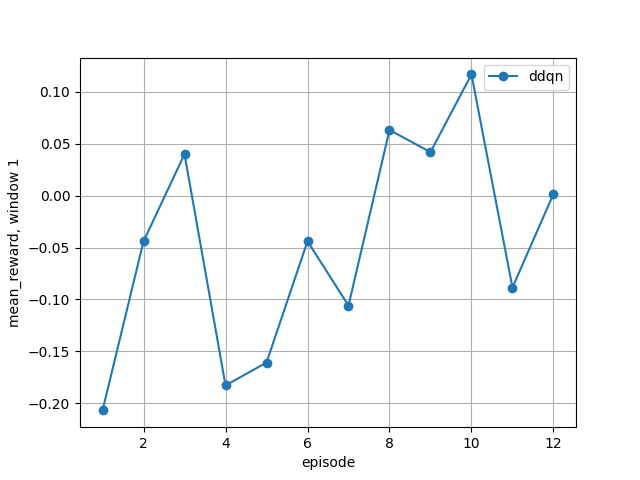
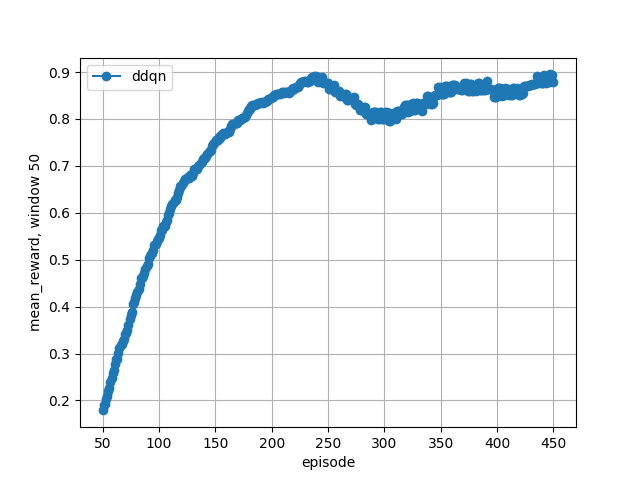
implemented optimal solution

diff --git a/utils/optimum.py b/utils/optimum.py
@@ -1,0 +1,131 @@
+"""
+optimum.py
+
+Class for generating the optimal split config for the given system variables and defined constraints.
+
+"""
+from utils.action_space import enumerate_action_space
+from utils.inference_utils import compute_inference
+
+class Opt:
+    def __init__(self, scenario_params, allowed_splits, num_nodes, flops_per_block, allowed_splits_blocks):
+        self.scenario_params = scenario_params
+        self.allowed_splits = allowed_splits
+        self.num_nodes = num_nodes
+        self.flops_per_block = flops_per_block
+        self.allowed_splits_blocks = allowed_splits_blocks
+        self.max_energy_credit = self.scenario_params['max_energy_credit']
+        self.max_inference_latency = self.scenario_params['max_inference_latency']
+        self.energy_credit_consumed = 0.0  # energy credit consumed initially is 0%
+        self.total_flops_offloaded = 0  # captures the cumulative flops offloaded by the ue until now
+        self.total_flops = 0  # captures total flops of all layers (static value)
+        self.total_flops_on_ue = 0  # captures the cumulative flops computed on the ue until now
+        for key, value in self.flops_per_block.items():
+            self.total_flops += value
+
+    def generate_optimal_split(self, time, ep, dnn_model, episode_params, output):
+        min_idx = 0
+        feasible_splits, action_indices = enumerate_action_space(self.allowed_splits, self.num_nodes, allow_empty_nodes=True)
+        num_feasible_splits = len(feasible_splits)
+        evaluations = [0 for _ in range(num_feasible_splits)]   # stores the optimization evaluation
+        constraints_satisfied = [False for _ in range(num_feasible_splits)] # stores if constraints are satisfied
+        # for each feasible split, compute the optimization and store it in a list
+        # and check if constraints are satisfied, store the result in a list
+        #print(feasible_splits)
+        for i, split in enumerate(feasible_splits):
+            #print(split)
+            # compute the flops to be offloaded due to this selected split
+            flops_to_be_offloaded, flops_on_ue = self.get_flops_offloaded(split, self.allowed_splits_blocks)
+            # compute the inference due to this selected split
+            inference_time, ue_en_comp, ue_en_comm, _ = compute_inference(split, dnn_model, episode_params, output)
+            optimization = (self.scenario_params['weight_inference_time'] * inference_time +
+                        self.scenario_params['weight_ue_energy'] * (ue_en_comp + ue_en_comm))
+            evaluations[i] = optimization
+            # for each evaluated optimization, check if constraints are satisfied
+            energy_credit_criteria, energy_credit_consumed = self.check_energy_credit_budget(flops_to_be_offloaded)
+            latency_criteria = self.check_latency_criteria(inference_time)
+            if energy_credit_criteria and latency_criteria:
+                constraints_satisfied[i] = True
+            else:
+                constraints_satisfied[i] = False
+        # start with the first split as the default
+        best_split_evaluation = evaluations[min_idx]
+        best_split = feasible_splits[min_idx]
+        # for each split that satisfies constraints, check if it's the minimum
+        for i, opt in enumerate(evaluations):
+            if constraints_satisfied[i]:
+                if evaluations[i] < best_split_evaluation:
+                    min_idx = i
+                    best_split_evaluation = evaluations[min_idx]
+                    best_split = feasible_splits[min_idx]
+        # however, if none of the feasible splits satisfies the constraints, go to fallback option
+        if True not in constraints_satisfied:
+            best_split = [(0, 0, 18), (1, 18, 18), (2, 18, 18), (3, 18, 18)]
+            print('No feasible solution found - ue computes everything')
+        # update the variables using the best split
+        flops_to_be_offloaded, flops_on_ue = self.get_flops_offloaded(best_split, self.allowed_splits_blocks)
+        self.total_flops_offloaded += flops_to_be_offloaded
+        self.total_flops_on_ue += flops_on_ue
+        print(self.total_flops_offloaded)
+        # TODO: update the energy credit consumed here
+        return best_split
+
+    def get_flops_offloaded(self, selected_split_config, allowed_splits_blocks):
+        """
+        Function that computes the flops offloaded for a selected split configuration.
+        Args:
+            selected_split_config (tuple): the selected split.
+            allowed_splits_blocks (dict): dict containing the mapping of the blocks to the allowed splits.
+
+        Returns:
+            the flops offloaded to the network and the corresponding flops on the ue.
+        """
+        flops_on_ue = 0
+        (node_id, start, end) = selected_split_config[0] # extract start and end layers of ue
+        # case 1: all layers on ue, ue offloads nothing
+        if start == 0 and end == 18:
+            flops_on_ue = self.total_flops
+            flops_offloaded = 0
+            return flops_offloaded, flops_on_ue
+        else:
+            # case 2: at least one block on ue, ue offloads the rest
+            for i, (block_id, block_start, block_end) in enumerate(allowed_splits_blocks):
+                if end > block_end:
+                    flops_on_ue += self.flops_per_block[block_id]
+                elif end == block_end:
+                    flops_on_ue += self.flops_per_block[block_id]
+                    break
+                else:
+                    raise ValueError('Wrong mapping of blocks.')
+            flops_offloaded = self.total_flops - flops_on_ue    # flops offloaded for this specific split config
+            return flops_offloaded, flops_on_ue
+
+
+    def check_energy_credit_budget(self, flops_offloaded):
+        """
+        Function that checks the energy credit criteria.
+        Args:
+            flops_offloaded (float): the flops offloaded due to the current split.
+
+        Returns:
+            The result of the constraint being satisfied or not, and the energy credit consumed.
+        """
+        energy_credit_consumed = (flops_offloaded + self.total_flops_offloaded) / (self.total_flops + self.total_flops_on_ue)
+        if energy_credit_consumed <= self.max_energy_credit / 100:
+            return True, energy_credit_consumed
+        else:
+            return False, 0
+
+    def check_latency_criteria(self, inference_time):
+        """
+        Function that checks latency criteria.
+        Args:
+            inference_time (float): The inference time due to the current split.
+
+        Returns:
+            The result of the constraint being satisfied or not.
+        """
+        if inference_time <= self.max_inference_latency:
+            return True
+        else:
+            return False

diff --git a/main.py b/main.py
@@ -10,6 +10,7 @@ from utils.param_generator import generate_params
 from utils.split_generator import generate_random_split
 from utils.scenario_generator import generate_scenario
 from utils.inference_utils import compute_inference
+from utils.optimum import Opt
 from utils.logging_utils import write_logs
 from rl.agent import Agent
 from PIL import Image
@@ -22,7 +23,7 @@ num_nodes = 4  # UE + 3 network nodes
 energy_cost = 1  # in 1e-7 scale (J/byte) for UE communication
 power = 5
 agent = None
-
+opt = None
 
 # Import the scenario params
 scenario_params = generate_scenario()
@@ -74,6 +75,9 @@ for ep in range(start_episode, scenario_params['n_episodes'] + 1):
         # initialize agent
         agent = Agent(scenario_params, allowed_splits, num_nodes, flops_per_block, allowed_splits_blocks)
         agent.agent.get_epsilon(ep)
+    elif scenario_params['split_algorithm'] == 3:   # if optimal solution is selected
+        # initialize solver
+        opt = Opt(scenario_params, allowed_splits, num_nodes, flops_per_block, allowed_splits_blocks)
     for k in range(1, scenario_params['episode_duration'], scenario_params['time_interval']):
         #print('Time step {} in episode {}'.format(k, ep))
         ue_freq, ue_flops_cycle, ue_bandwidth, freqs, flops_cycle, bandwidth = generate_params(num_nodes)
@@ -113,11 +117,14 @@ for ep in range(start_episode, scenario_params['n_episodes'] + 1):
 
         if scenario_params['split_algorithm'] == 1:  # indicates random split
             split_config = generate_random_split(allowed_splits, num_nodes)  # Replace with RL method
-        else:
+        elif scenario_params['split_algorithm'] == 2:   # rl agent
             split_config = agent.execute(k, ep, model, episode_params, current_output)  # agent determines the split every time_interval seconds
-
+        else:
+            split_config = opt.generate_optimal_split(k, ep, model, episode_params, current_output)
+            print('Optimal split {}'.format(split_config))
         # compute inference using the generated split configuration
-        total_time, ue_energy_comp, ue_energy_comm, current_output = compute_inference(split_config, model, episode_params, current_output)
+        total_time, ue_energy_comp, ue_energy_comm, current_output = compute_inference(split_config, model,
+                                                                                       episode_params, current_output)
 
         #
         # -----------------------
@@ -133,7 +140,8 @@ for ep in range(start_episode, scenario_params['n_episodes'] + 1):
         inference_time_per_episode.append({'time_step': k, 'inference_time': total_time})
         ue_energy_comp_per_episode.append({'time_step': k, 'ue_energy_comp': ue_energy_comp})
         ue_energy_comm_per_episode.append({'time_step': k, 'ue_energy_comm': ue_energy_comm})
-        success_rate_per_episode.append({'time_step': k,
+        if scenario_params['split_algorithm'] == 2:
+            success_rate_per_episode.append({'time_step': k,
                                          'success_rate': (agent.agent.n_success / agent.agent.n_attempts_to_split) * 100})
         # -----------------------
         # Final Classification Output
@@ -166,6 +174,6 @@ for ep in range(start_episode, scenario_params['n_episodes'] + 1):
     # Display variables in this episode
     # --------------------------------------
     if scenario_params['split_algorithm'] == 2:
-        print('Mean episode reward {}, success rate {}'.format(agent.agent.mean_reward,
+        print('Cumulative episode reward {}, success rate {}'.format(agent.agent.cumulative_reward,
                                                                (agent.agent.n_success / agent.agent.n_attempts_to_split) * 100))
 

diff --git a/rl/agent.py b/rl/agent.py
@@ -5,7 +5,7 @@ Defines the generic RL agent and its associated methods to train or infer the RL
 """
 
 from rl.ddqn import DDQNAgent, QValues
-from rl.replay_buffer import Experience, extract_tensors, ReplayBuffer
+from rl.replay_buffer import Experience, extract_tensors
 from utils.action_space import enumerate_action_space
 from utils.rl_utils import load_model_params
 
@@ -55,10 +55,10 @@ class Agent:
         # if training mode is on
         if not self.scenario_params['inference']:
             # train the agent
-            final_action = self.train_agent(time, dnn_model, episode_params, output)
+            final_action = self.train_ddqn_agent(time, dnn_model, episode_params, output)
         return final_action
 
-    def train_agent(self, time, dnn_model, episode_params, output):
+    def train_ddqn_agent(self, time, dnn_model, episode_params, output):
         """
         Function that trains the agent.
         Args:
@@ -87,7 +87,7 @@ class Agent:
         self.agent.reward.append({'time': time, 'reward': reward})
         # update reward counter and compute cumulative average
         self.agent.reward_counter += 1
-        self.agent.mean_reward = reward / self.agent.reward_counter
+        self.agent.cumulative_reward = reward / self.agent.reward_counter
         next_state = self.agent.get_agent_state(episode_params, self.flops_per_block)
         # collect the experience in the replay buffer
         self.agent.replay_buffer.push(Experience(

diff --git a/rl/ddqn.py b/rl/ddqn.py
@@ -12,7 +12,6 @@ import torch.nn as nn
 import torch.nn.functional as F
 
 from utils.rl_utils import load_model_params
-from utils.split_generator import generate_random_split
 from utils.inference_utils import compute_inference
 from rl.replay_buffer import ReplayBuffer
 
@@ -49,7 +48,7 @@ class DDQNAgent(nn.Module):
         self.loss_counter = 0
         self.reward = []
         self.reward_counter = 0 # to compute running average of the rewards
-        self.mean_reward = 0
+        self.cumulative_reward = 0
         self.epsilon = None
         self.epsilon_ini = self.scenario_params['epsilon_ini']
         self.epsilon_step_percent = self.scenario_params['epsilon_step_percent']

diff --git a/postprocessing/convergence.py b/postprocessing/convergence.py
@@ -10,7 +10,7 @@ from utils.logging_utils import read_single_col_data, return_order, parse_episod
 
 
 def plot_metric(metric, df, outfile, folder):
-    window = 1
+    window = 50
     fig, ax = plt.subplots()
     roll_mean_loss = df[metric].rolling(window=window).mean()
     plt.plot(df['episode'], roll_mean_loss, marker='o', label='ddqn')
@@ -47,7 +47,7 @@ def main():
 
     params = generate_scenario()
     # specify the number of episodes to be plotted
-    n_episodes = 12
+    n_episodes = 450
     order_to_convert = 100
     generate_metric(params, n_episodes, order_to_convert, 'mean_loss')
     generate_metric(params, n_episodes, order_to_convert, 'mean_reward')

diff --git a/README.md b/README.md
@@ -21,15 +21,18 @@ splitai-6g is a research framework for **layer-wise partitioning of deep neural 
     - `ue_node.py` → UE class handling compute & energy  
     - `network_node.py` → Network compute node class (gNB/Edge/Core)  
   - **utils/**
+    - `action_space.py` → Generates the feasible split configurations 
+    - `comm_utils.py` → Communication latency and energy modeling utilities
+    - `energy_utils.py` → UE-specific energy consumption functions
     - `flop_utils.py` → FLOPs computation time calculation  
     - `flops_profile.py` → FLOPs per-layer (segment) profiler using flattened VGG16 layers  
-    - `energy_utils.py` → UE-specific energy consumption functions  
-    - `param_generator.py` → Generates random CPU frequencies, FLOPs, bandwidth  
-    - `comm_utils.py` → Communication latency and energy modeling utilities  
-    - `split_generator.py` → Generates random multi-node split configurations
+    - `inference_utils.py` → Computes the inference time and ue energy for the selected split config   
+    - `logging_utils.py` → Functions related to reading and writing experiment logs
+    - `optimum.py` → Solves the optimization problem and returns the optimal split for the given inputs
+    - `param_generator.py` → Generates random CPU frequencies, FLOPs, bandwidth
     - `rl_utils.py` → RL-specific utility functions
     - `scenario_generator.py` → Reads and packs scenario params from config file
-    - `logging_utils.py` → Functions related to reading and writing experiment logs
+    - `split_generator.py` → Generates random multi-node split configurations
   - **rl/**
     - **initial_models/** → stores initial model params for a given number of states and actions
     - `generate_model_params.py` → script to instantiate RL model architecture and save initial model params 
